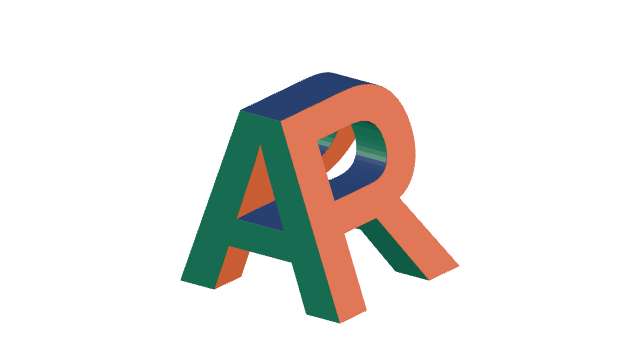
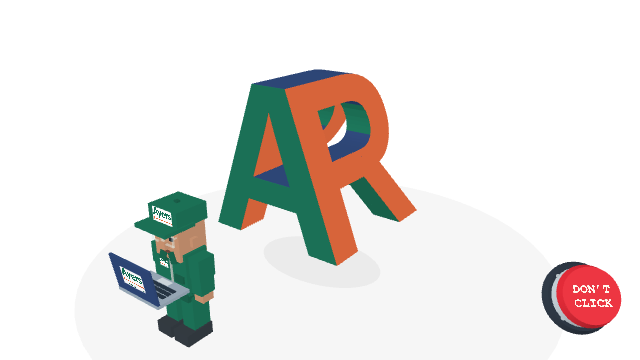
Show the repair scene in the profile animation

Changed region(s): [[0.1562, 0.1833, 0.7188, 0.9778], [0.8438, 0.7028, 0.9688, 0.9472]]

diff --git a/profile/README.md b/profile/README.md
@@ -2,7 +2,7 @@
   <a href="https://ayers-software-repair-ar.blushsloth8.chatgpt.site/">
     <picture>
       <source media="(prefers-reduced-motion: reduce)" srcset="https://raw.githubusercontent.com/ayers-software-repair/.github/main/assets/ar-still.png">
-      <img src="https://raw.githubusercontent.com/ayers-software-repair/.github/main/assets/ar-spin.gif" alt="A three-dimensional A/R monogram slowly rotating in Ayers green, orange, and navy." width="640">
+      <img src="https://raw.githubusercontent.com/ayers-software-repair/.github/main/assets/ar-repair.gif" alt="The Ayers A/R logo is knocked apart by software problems while a voxel developer walks around repairing it with a laptop." width="640">
     </picture>
   </a>
 </p>
